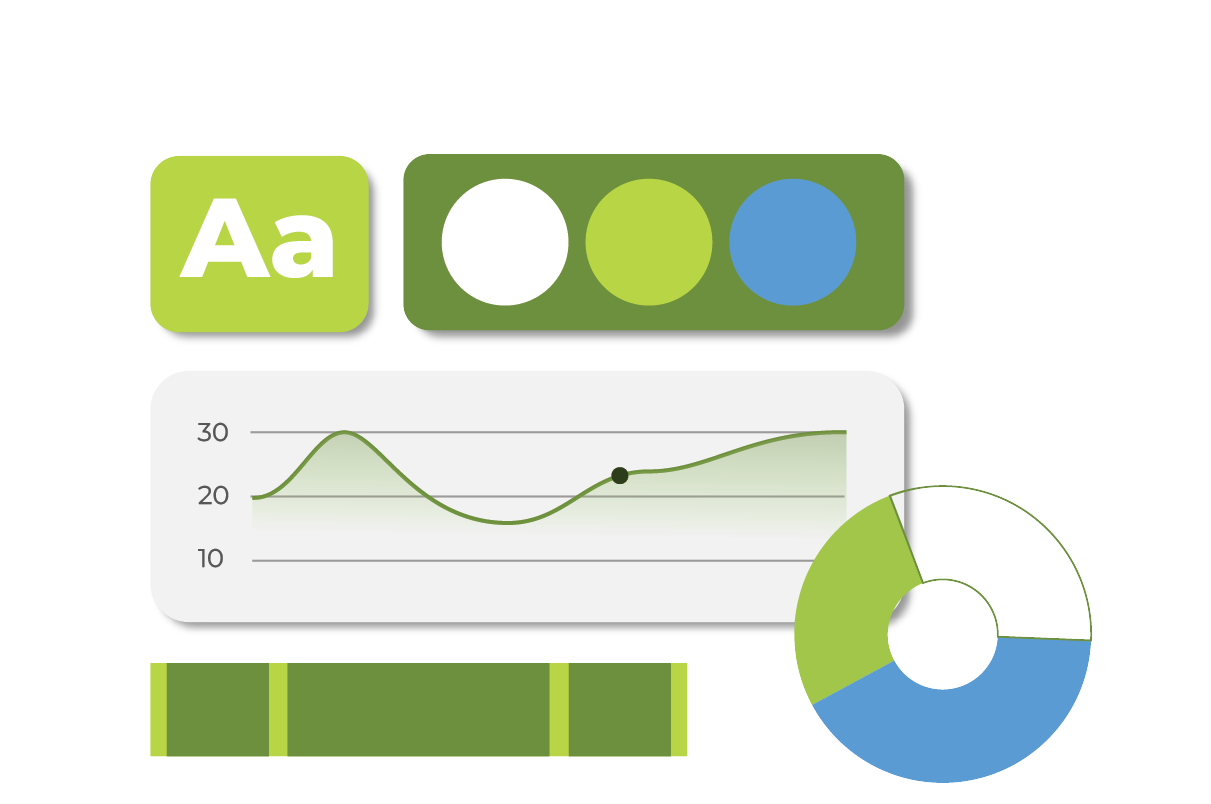
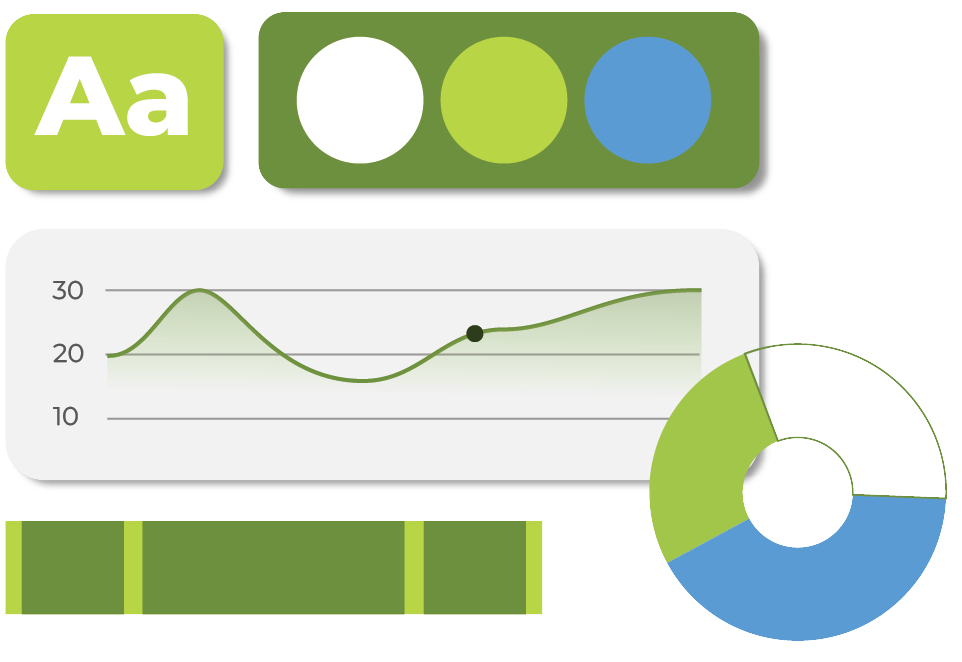
responsiveness

diff --git a/index.html b/index.html
@@ -381,10 +381,12 @@
                     <p><b>Code Extract</b></p>
                     <pre>
                         <code>
-                            &lt;button class="primary"&gt;Primary&lt;/button&gt;
-                            &lt;button class="secondary"&gt;Secondary&lt;/button&gt;
-                            &lt;button class="tertiary"&gt;Tertiary&lt;/button&gt;
-                            &lt;button class="disabled"&gt;Disabled&lt;/button&gt;
+                            &lt;label for="selectOption"&gt;Select an option:&lt;/label&gt;
+                            &lt;select id="selectOption" name="selectOption"&gt;
+                                &lt;option value="option1"&gt;Option 1&lt;/option&gt;
+                                &lt;option value="option2"&gt;Option 2&lt;/option&gt;
+                                &lt;option value="option3"&gt;Option 3&lt;/option&gt;
+                            &lt;/select&gt;
                         </code>
                     </pre>
                 </div>
@@ -433,26 +435,42 @@
         <div class="section-content">
             <form>
                 <!-- Select an option -->
-                 <h4>Option button</h4>
-                <label for="selectOption">Select an option:</label>
-                <select id="selectOption" name="selectOption">
-                    <option value="option1">Option 1</option>
-                    <option value="option2">Option 2</option>
-                    <option value="option3">Option 3</option>
-                </select>
+                <h4>Option button</h4>
+                <label for="selectOption">Country:</label><br>
+                <div class="custom-dropdown">
+                    <div class="selected-option">
+                      <span>Select Country</span>
+                      <!-- SVG Icon for dropdown arrow -->
+                      <svg class="dropdown-icon" width="12" height="12" viewBox="0 0 24 24" fill="none" xmlns="http://www.w3.org/2000/svg">
+                        <path d="M7 10L12 15L17 10H7Z" fill="currentColor" />
+                      </svg>
+                    </div>
+                    <div class="options">
+                      <div class="option">
+                        <img src="./images/flags/canada.png" alt="">
+                        Canada
+                      </div>
+                      <div class="option">
+                        <img src="./images/flags/usa.png" alt="">
+                        America
+                      </div>
+                      <div class="option">
+                        <img src="./images/flags/nigeria.png" alt="">
+                        Nigeria
+                    </div> 
+                </div>
+                               
                 <br>
                 <div class="codeFormat">
                     <p><b>Code Extract</b></p>
                     <pre>
                         <code>
-                            <code>
-                                &lt;label for="selectOption"&gt;Select an option:&lt;/label&gt;
-                                &lt;select id="selectOption" name="selectOption"&gt;
-                                    &lt;option value="option1"&gt;Option 1&lt;/option&gt;
-                                    &lt;option value="option2"&gt;Option 2&lt;/option&gt;
-                                    &lt;option value="option3"&gt;Option 3&lt;/option&gt;
-                                &lt;/select&gt;
-                            </code>
+                            &lt;label for="selectOption"&gt;Select an option:&lt;/label&gt;
+                            &lt;select id="selectOption" name="selectOption"&gt;
+                                &lt;option value="option1"&gt;Option 1&lt;/option&gt;
+                                &lt;option value="option2"&gt;Option 2&lt;/option&gt;
+                                &lt;option value="option3"&gt;Option 3&lt;/option&gt;
+                            &lt;/select&gt;
                         </code>
                     </pre>
                 </div>
@@ -604,6 +622,26 @@
     // Observe each section
     sections.forEach(section => observer.observe(section));
 });
+
+const selectedOption = document.querySelector('.selected-option');
+const optionsContainer = document.querySelector('.options');
+const dropdown = document.querySelector('.custom-dropdown');
+
+selectedOption.addEventListener('click', () => {
+  const isActive = optionsContainer.style.display === 'block';
+  optionsContainer.style.display = isActive ? 'none' : 'block';
+  dropdown.classList.toggle('active', !isActive);
+});
+
+document.querySelectorAll('.option').forEach(option => {
+  option.addEventListener('click', () => {
+    selectedOption.querySelector('span').textContent = option.textContent;
+    optionsContainer.style.display = 'none';
+    dropdown.classList.remove('active');
+  });
+});
+
+
 
 </script>
 <script src="https://kit.fontawesome.com/73f08afdf2.js" crossorigin="anonymous"></script>

diff --git a/style.css b/style.css
@@ -72,6 +72,7 @@ section{
 .container{
     padding: 0px 100px;
     display: flex;
+    flex-wrap: wrap;
     
 }
 .left{
@@ -431,6 +432,201 @@ pre{
 .dropdown:hover .dropdown-button {
     background-color: #3e8e41;
 }
+
+/* select input */
+.custom-dropdown {
+    position: relative;
+    width: 200px;
+    cursor: pointer;
+    font-size: 15px;
+  }
+  
+  .selected-option {
+    display: flex;
+    justify-content: space-between;
+    align-items: center;
+    padding: 8px 12px;
+    background-color: #eaeaea;
+    border-radius: 2px;
+  }
+  
+  .dropdown-icon {
+    margin-left: 8px;
+    color: #666;
+    transition: transform 0.3s;
+  }
+  
+  .options {
+    margin-top: 10px;
+    display: none;
+    position: absolute;
+    width: 100%;
+    background-color: #fff;
+    border-radius: 5px;
+    z-index: 100;
+    box-shadow: 2px 2px 10px rgb(137, 137, 137);
+  }
+  
+  .option {
+    display: flex;
+    padding: 8px 12px;
+    margin: 10px 0px;
+  }
+  .option img{
+    width: 15%;
+    margin-right: 10px;
+  }
+  
+  .option:hover {
+    background-color: #ddd;
+  }
+  
+  /* Rotate icon when dropdown is active */
+  .custom-dropdown.active .dropdown-icon {
+    transform: rotate(180deg);
+  }
+  
+ /* breakpoint mobile */
+    @media only screen and (max-width: 600px) {
+        .container {
+            padding: 0px 20px;
+        }
+        .left{
+            width: 100%;
+            padding-top: 100px;
+        }
+        .right-image{
+            margin-top: 50px;
+            width: 100%;
+        }
+        .menu{
+            display: none;
+        }
+        #colors h1{
+            font-size: 20px;
+        }
+        section{
+            padding-top: 70px;
+            min-height: 70vh;
+        }
+        .arrow-house{
+            display: none;
+        }
+        .container .section-header{
+            width: 100vw;
+            margin-bottom: 20px;
+        }
+        #colors h3{
+            font-size: 30px;
+        } */
+        .mobileTablet{
+            display: flex;
+            flex-direction: column;
+        }
+        .mobile{
+            width: 100%;
+        }
+        .tablet{
+            width: 100%;
+        }
+        .headingText{
+            width: 100%;
+        }
+        .section-header{
+            width: 100%;
+        }
+        .section-content{
+            width: 100vw !important;
+        }
+        .gridClass .outerBox{
+            width: 100%;
+        }
+        .gridSystem{
+            width: 100%;
+        }
+        .button-container{
+            display: flex;
+            flex-direction: column;
+        }
+        .button-container button{
+            width: 100%;
+            margin-bottom: 10px;
+        }
+        .dropdown-content{
+            font-size: 12px;
+        }
+        .custom-dropdown {
+            width: 100%;
+        }
+        .selected-option {
+            padding: 8px 12px;
+        }
+        .headingText{
+            width: 100vw;
+            display: flex;
+            align-items: center;
+            justify-content: space-between;
+        }
+        .endText{
+            width: 10%;
+        }
+        .options {
+            width: 100%;
+        }
+        .option img{
+            width: 20%;
+        }
+        .option{
+            padding: 8px 12px;
+        }
+        .endText{
+            width: 100%;
+        }
+        .card-container{
+            width: 100%;
+        }
+        .color-group{
+            display: flex;
+            flex-direction: column;
+        }
+        .color-section h1{
+            margin-bottom: 0;
+        }
+        .typeface p{
+            width: 100%;
+        }
+        .typeface h1{
+            font-size: 50px;
+            line-height: 50px;
+        }
+        .typeface p{
+            width: 100%;
+        }
+        .headOne{
+            font-size: 30px;
+            width: 50%;
+        }
+        .headTwo{
+            font-size: 24px;
+            width: 50%;
+            
+        }
+        .headThree{
+            font-size: 20px;
+            width: 50%;
+        }
+        .headFour{
+            font-size: 16px;
+            width: 50%;
+        }
+        .bodyText{
+            width: 50%;
+        }
+        .endText{
+            width: 60%;
+        }
+        
+    }
 
 
 
